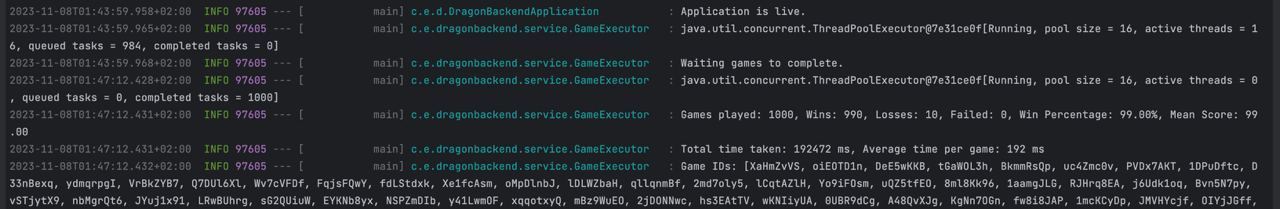
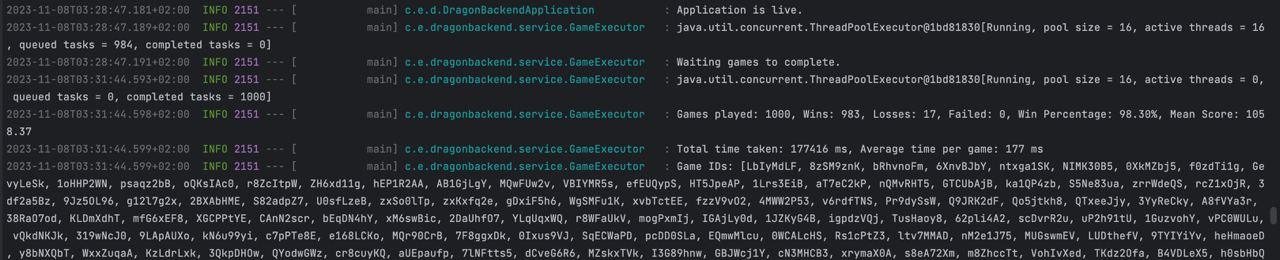
Fix typo in the logger + Re-run games for new images with fixed typo.

diff --git a/src/main/java/com/example/dragonbackend/service/GameExecutor.java b/src/main/java/com/example/dragonbackend/service/GameExecutor.java
@@ -125,7 +125,7 @@ public class GameExecutor {
             // If there are multiple games, print detailed statistics
             double winPercentage = (wins / (double) totalGames) * 100;
             String winPercentageFormatted = String.format("%.2f", winPercentage);
-            String meanScoreFormatted = String.format("%.2f", winPercentage);
+            String meanScoreFormatted = String.format("%.2f", meanScore);
             logger.info("Games played: {}, Wins: {}, Losses: {}, Failed: {}, Win Percentage: {}%, Mean Score: {}",
                     totalGames, wins, losses, failedGamesSize, winPercentageFormatted, meanScoreFormatted);
             logger.info("Total time taken: {} ms, Average time per game: {} ms",

diff --git a/README.md b/README.md
@@ -72,7 +72,8 @@ The asynchronous and parallel execution of the games was implemented to easily t
 The games could be won(by having more than 1000 points), lost(by having less than 1000 points and 0 lives)
 or failed(server not responding to request with retries and less than 1000 points).
 
-By running 100 and 1000 games at the same time the results are positive: more than 90% wins(on both images 99%)!
+By running 100 and 1000 games, the results are positive:
+more than 90% games are wins(on both images more than 98%)!
 
 ![results_100_games](src/main/resources/static/assets/images/results_100_games.jpg)
 
